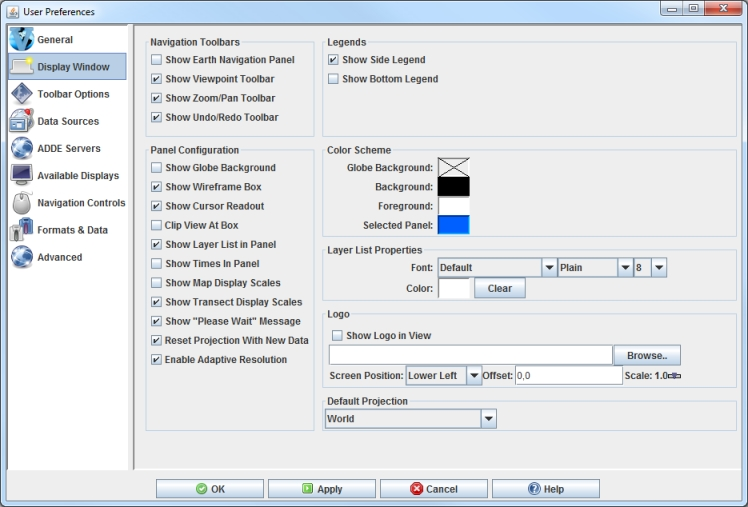
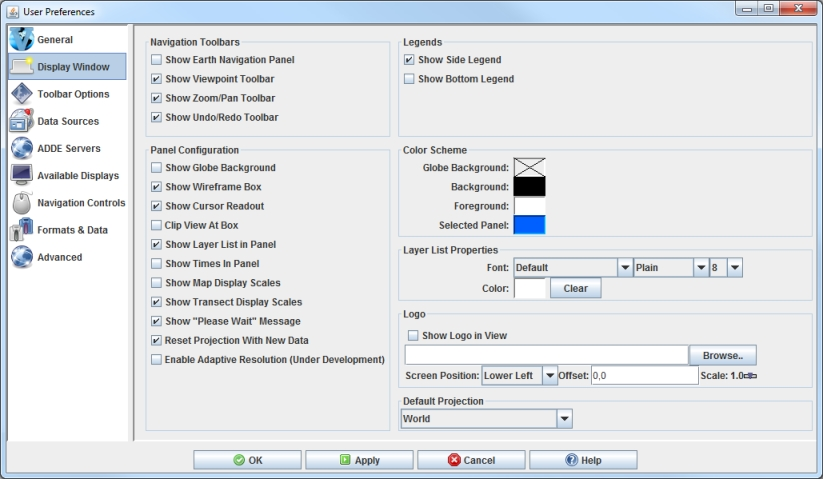
[0] Dreamweaver updates synced from web server.

diff --git a/docs/userguide/processed/tools/preferences/DisplayWindowPreferences.html b/docs/userguide/processed/tools/preferences/DisplayWindowPreferences.html
@@ -32,7 +32,7 @@ function setParentPage() { if (parent.setPage) parent.setPage('tools/preferences
 <div class="pagetitle">Display Window Preferences</div>
 <p>The User Preferences window is accessed in the Main Display window through the <strong>Edit-&gt;Preferences</strong> menu.  The <strong>Display Window</strong> tab allows the user to set preferences related to the Main Display window. The image below represents the default settings for the <strong>Display Window</strong> tab.</p>
 <a name="image1" id="image1"></a>
-<div class="images"><img src="../images/NewPictures/DisplayWindowPrefs.jpg" width="748" height="507" alt="Image 1: Display Window Preferences (Defalt)"><br>
+<div class="images"><img src="../images/NewPictures/DisplayWindowPrefs.jpg" width="823" height="479" alt="Image 1: Display Window Preferences (Default)"><br>
 <span class="caption">Image 1: Display Window Preferences (Default)</span></div>
 <div class="pagesubtitle">
   <p>Navigation Toolbars</p>
@@ -60,7 +60,7 @@ function setParentPage() { if (parent.setPage) parent.setPage('tools/preferences
 <li class="propertylistitem"><a name="showtransectdisplayscales" id="showtransectdisplayscales"></a><b>Show Transect Display Scales</b> - Shows a vertical scale for transect displays.</li>
 <li class="propertylistitem"><a name="show&quot;pleasewait&quot;message" id="show&quot;pleasewait&quot;message"></a><b>Show "Please Wait" Message</b> - Displays the "Please Wait" message in the bottom toolbar of the Main Display window when McIDAS-V is in the middle of a process.</li>
 <li class="propertylistitem"><a name="resetprojectionwithnewdata" id="resetprojectionwithnewdata"></a><b>Reset Projection With New Data</b> - Causes each new display made in McIDAS-V to snap the whole Main Display window to the native projection of the data. This can be undesirable if you are overlaying several kinds of data, some of which have differing projections. However, it works well if you are working with data based on the same projection. Another option related to this is <a href="../../ui/DisplayMenus.html#autosetpro">Auto-Set Projection</a>.</li>
-<li class="propertylistitem"><a name="enableAdaptiveResolution" id="enableAdaptiveResolution"></a><strong>Enable Adaptive Resolution -</strong>Toggles adaptive resolution to be active or inactive for the session as a whole. If   active, then any layers capable of utilizing adaptive resolution will   use it. If inactive, then no layers will use adaptive resolution. Note   that this feature is still under development. For more information, see <a href="../../misc/AdaptiveResolution.html">Adaptive Resolution</a>.</li>
+<li class="propertylistitem"><a name="enableAdaptiveResolution" id="enableAdaptiveResolution"></a><strong>Enable Adaptive Resolution (Under Development) -</strong>Toggles adaptive resolution to be active or inactive for the session as a whole. If   active, then any layers capable of utilizing adaptive resolution will   use it. If inactive, then no layers will use adaptive resolution. Note   that this feature is still under development. For more information, see <a href="../../misc/AdaptiveResolution.html">Adaptive Resolution</a>.</li>
 </div>
 </ul>
 <div class="pagesubtitle">Color Scheme</div>
